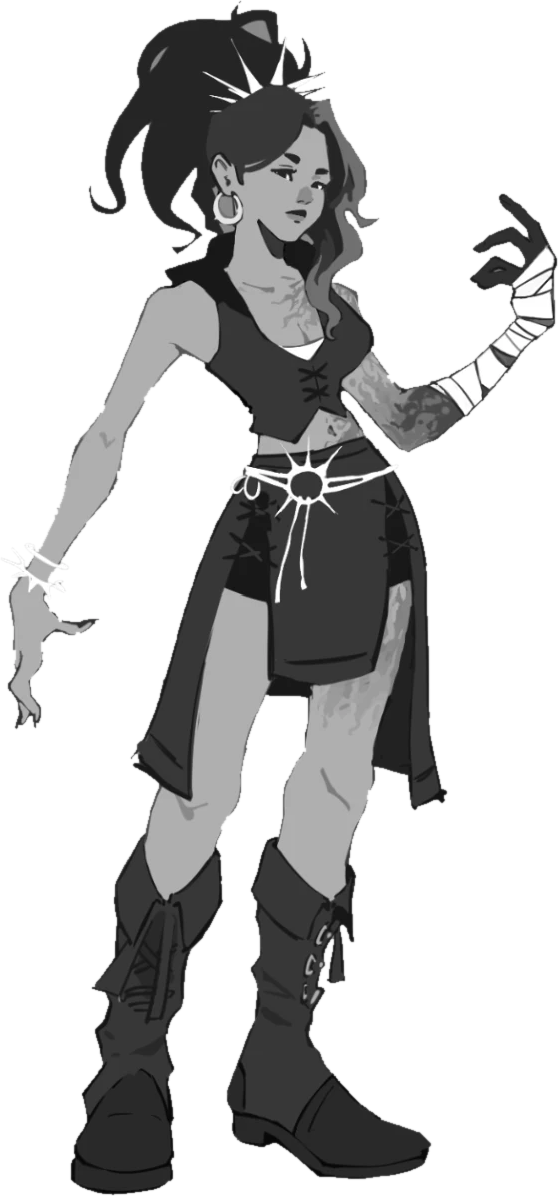
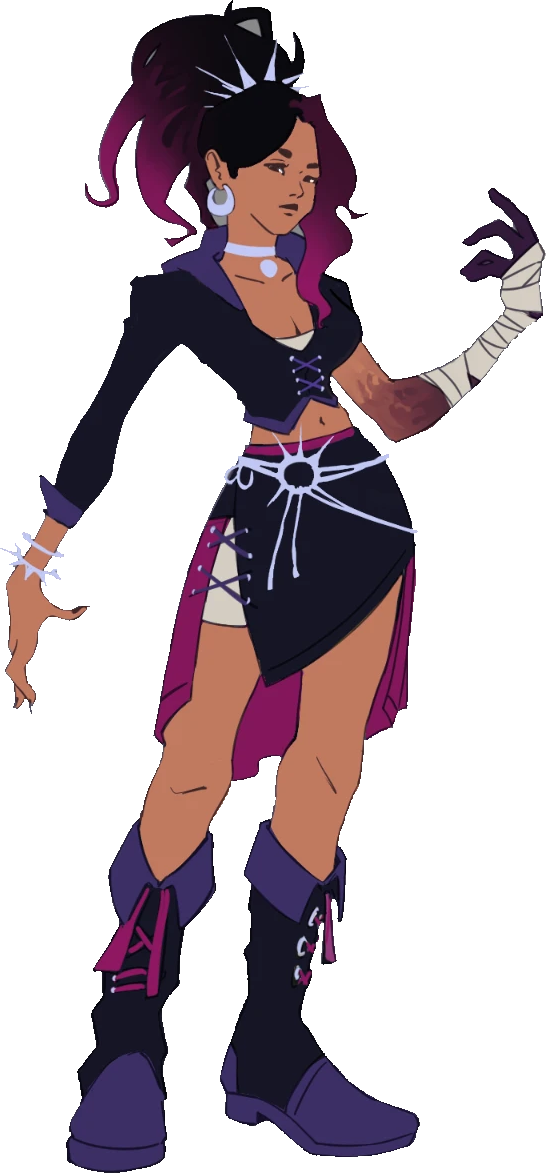
art: Sniff & Snitch leads from the final colour sheet
Lyra and Fia are cut out of the team's new colour sheet; the cover,
key art and lineup are rendered again from them.

diff --git a/art/sniff/README.md b/art/sniff/README.md
@@ -2,5 +2,5 @@
 
 Inputs for `art/sniff_poster.mjs` (work X-004). All of it is the Sniff & Snitch team's own art.
 
-- `lyra.png`, `fia.png`: one figure each, cut out of the team's character sheets (Lyra: the first of the three greyscale outfit variants; Fia: the first colour variant). The flat grey background was flooded out from the crop's border and the edge pulled in by a pixel.
+- `lyra.png`, `fia.png`: one figure each, cut out of the team's final colour sheet of the two leads (Lyra in her black-and-plum outfit, Fia with goggles, wrench and tail; November 2026, replacing the earlier greyscale/first-variant sheets). The flat grey background (#898989) was flooded out from the border, enclosed pure-grey pockets removed, the edge pulled in by a pixel, and the sheet's palette swatches left out.
 - `placard-lyra.png`, `placard-fia.png`: the booking placards from the game's character select, copied unchanged from `Assets/Sniff/art/2d/ui/SelectionUI/Lyra.png` and `Fia.png` in the game project.
